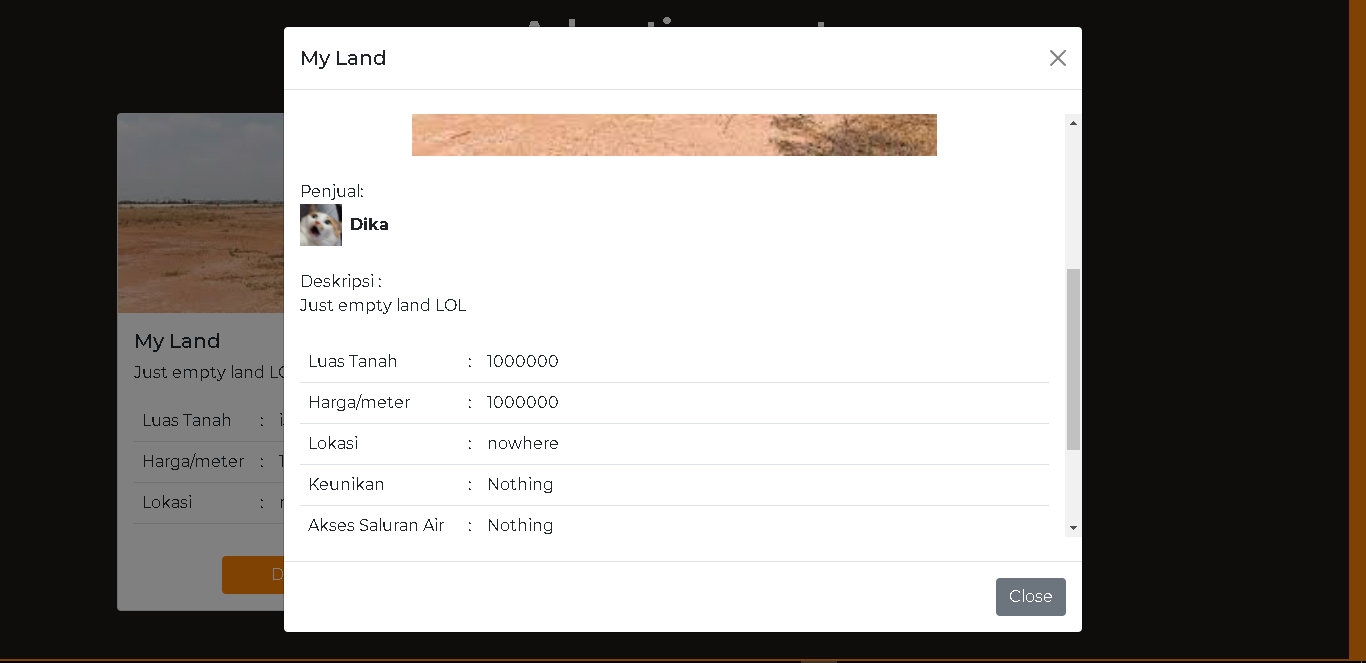
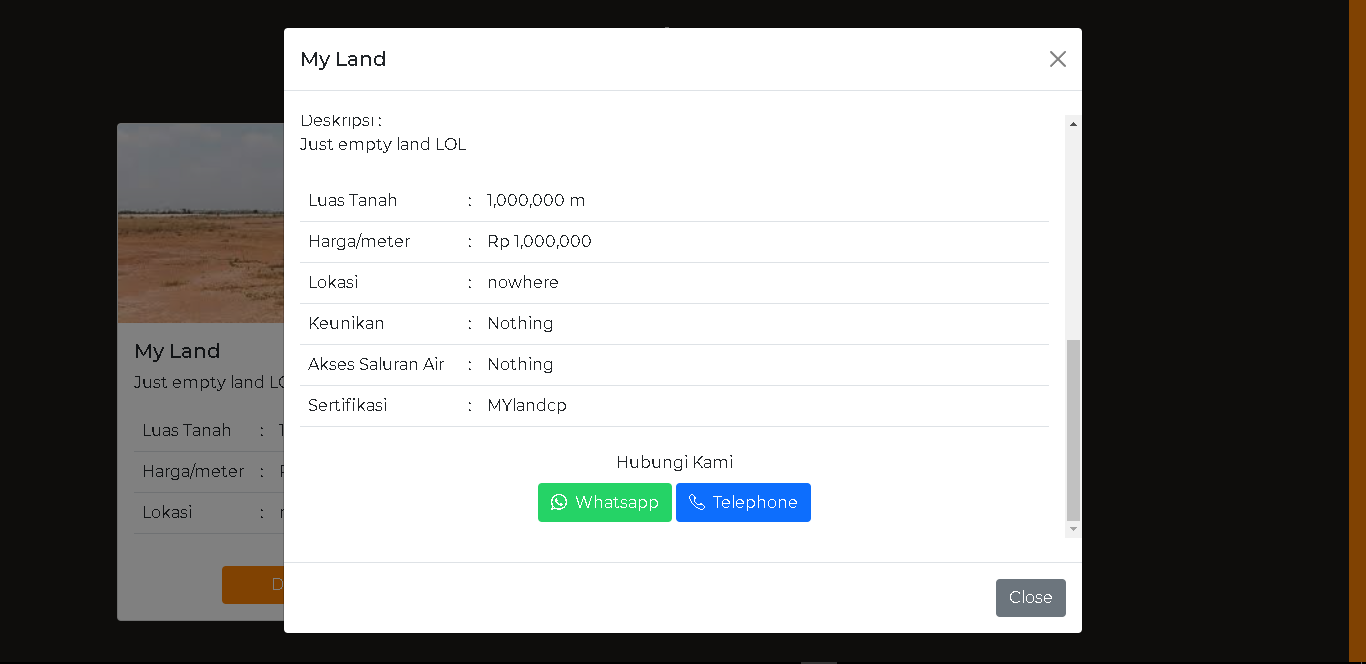
'BuxFix'

diff --git a/template/ads.html b/template/ads.html
@@ -1,4 +1,5 @@
 {%extends 'dashboard.html'%}
+{% load humanize %}
 {%block title%}
 <title>Ads | LANDME</title>
 {%endblock%}
@@ -61,8 +62,8 @@
 							<tr>
 								<td>{{forloop.counter}}</td>
 								<td>{{x.title}}</td>
-								<td>None</td>
-								<td>{{x.harga}}</td>
+								<td>{{x.luas|intcomma}} m</td>
+								<td>Rp {{x.harga|intcomma}}</td>
 								<td>{{x.lokasi}}</td>
 								<td class="text-center">
 									<a href="{%url 'update' x.id%}" class="me-2 text-primary"

diff --git a/template/dashboard.html b/template/dashboard.html
@@ -1,4 +1,5 @@
 {% load static %}
+{% load humanize %}
 <!DOCTYPE html>
 <html lang="en">
 	<head>
